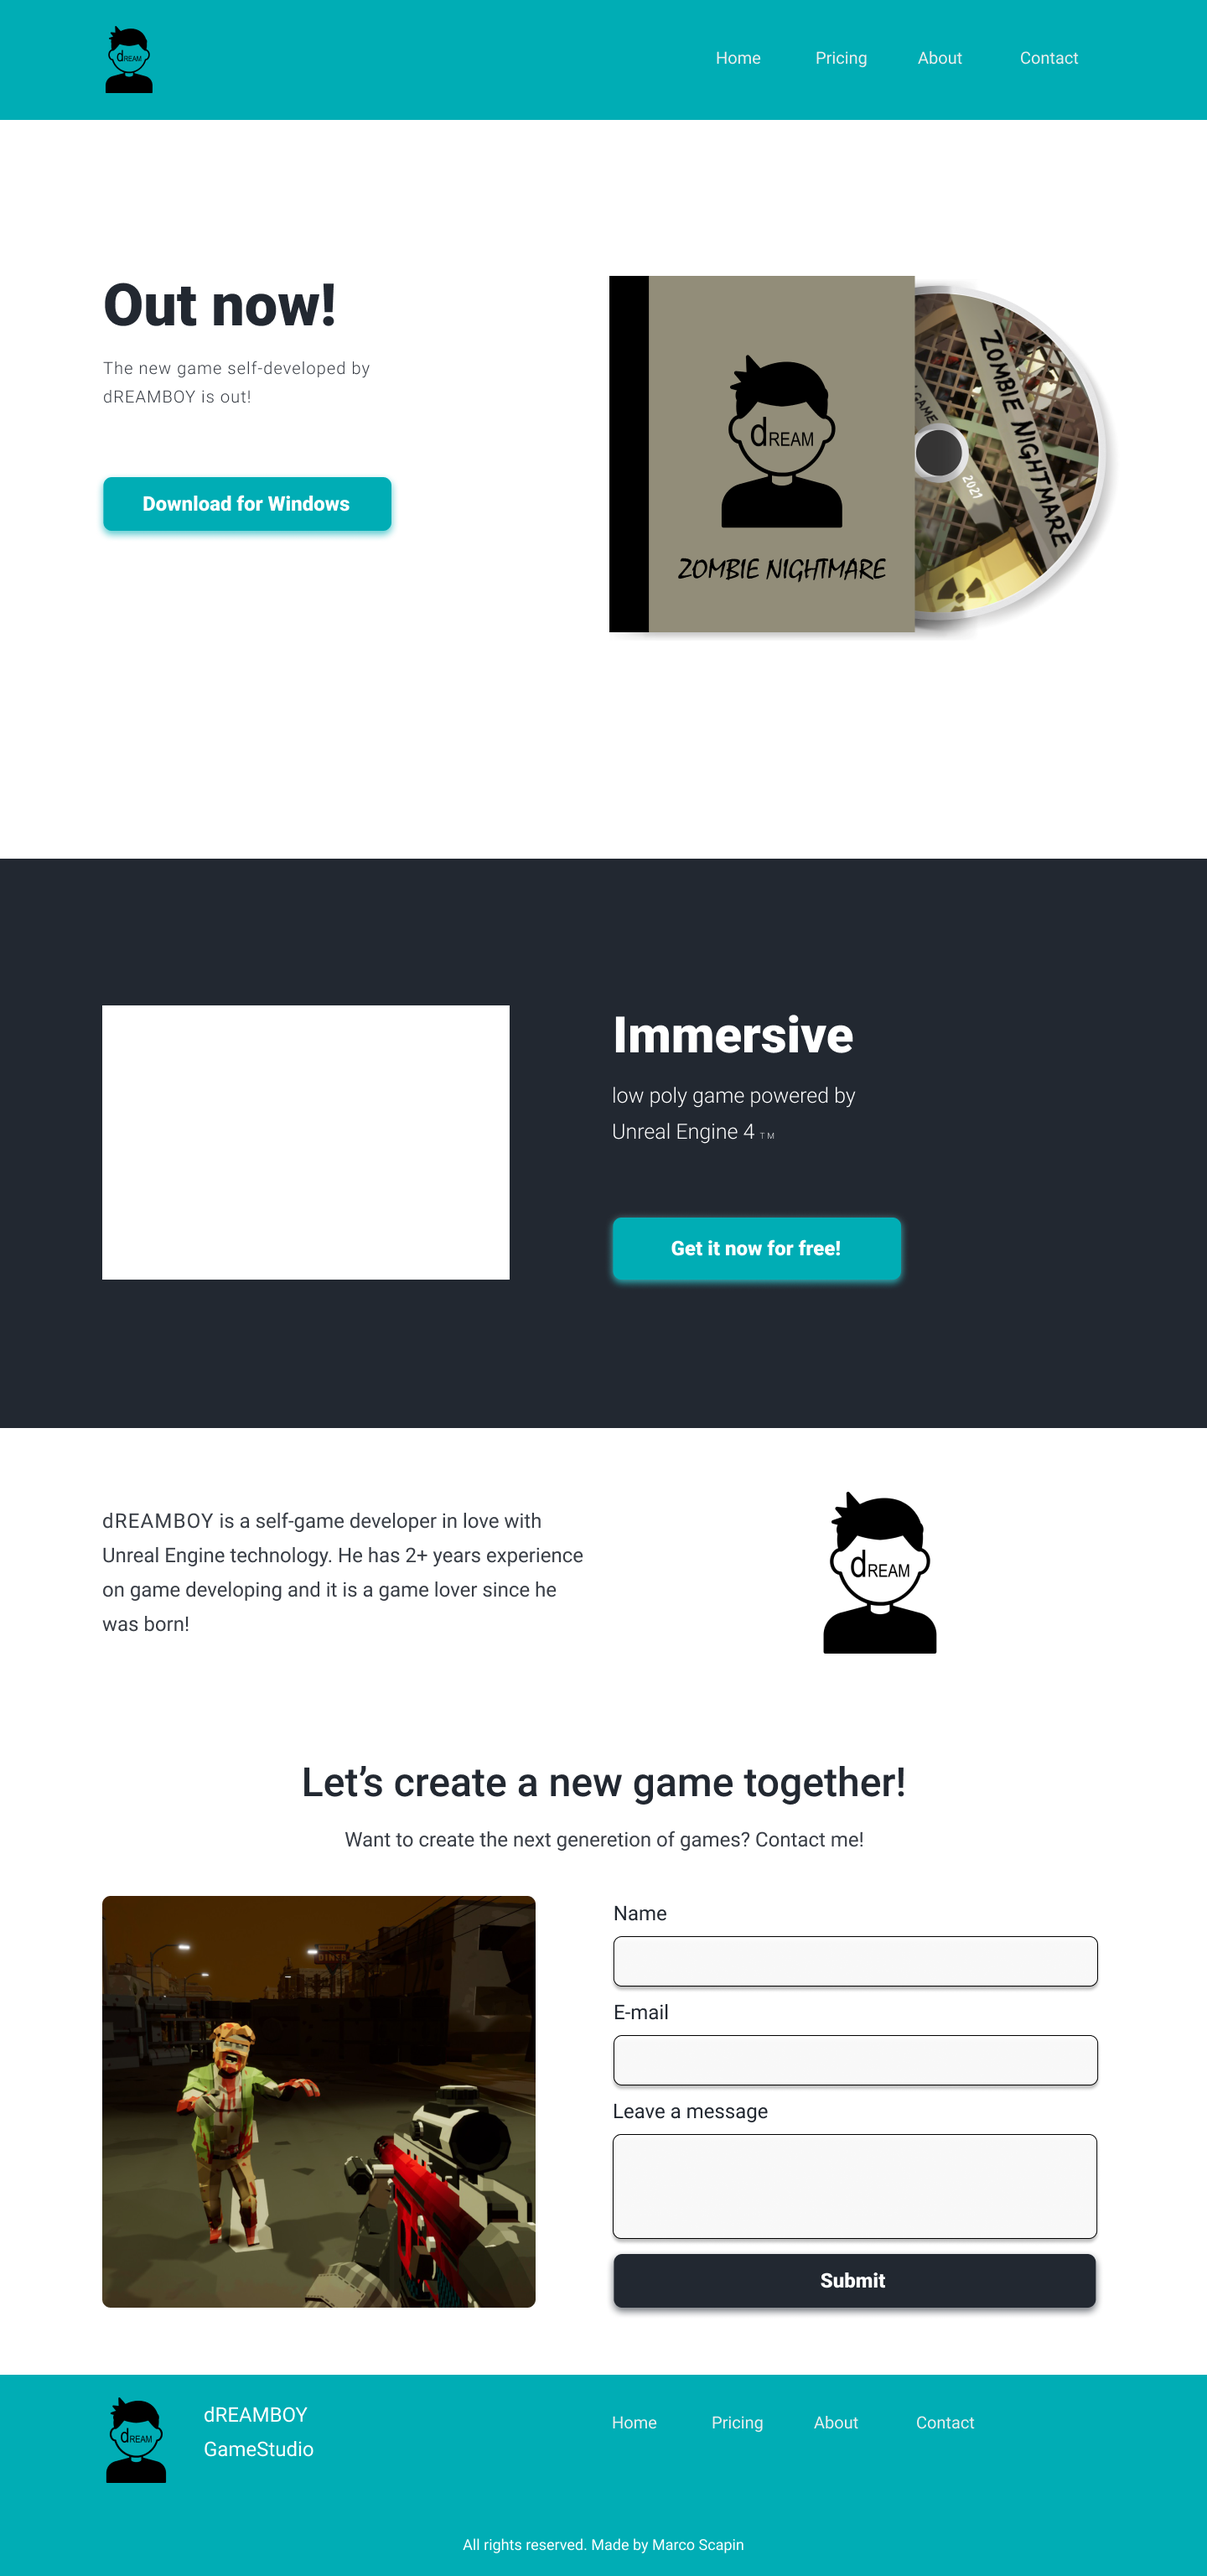
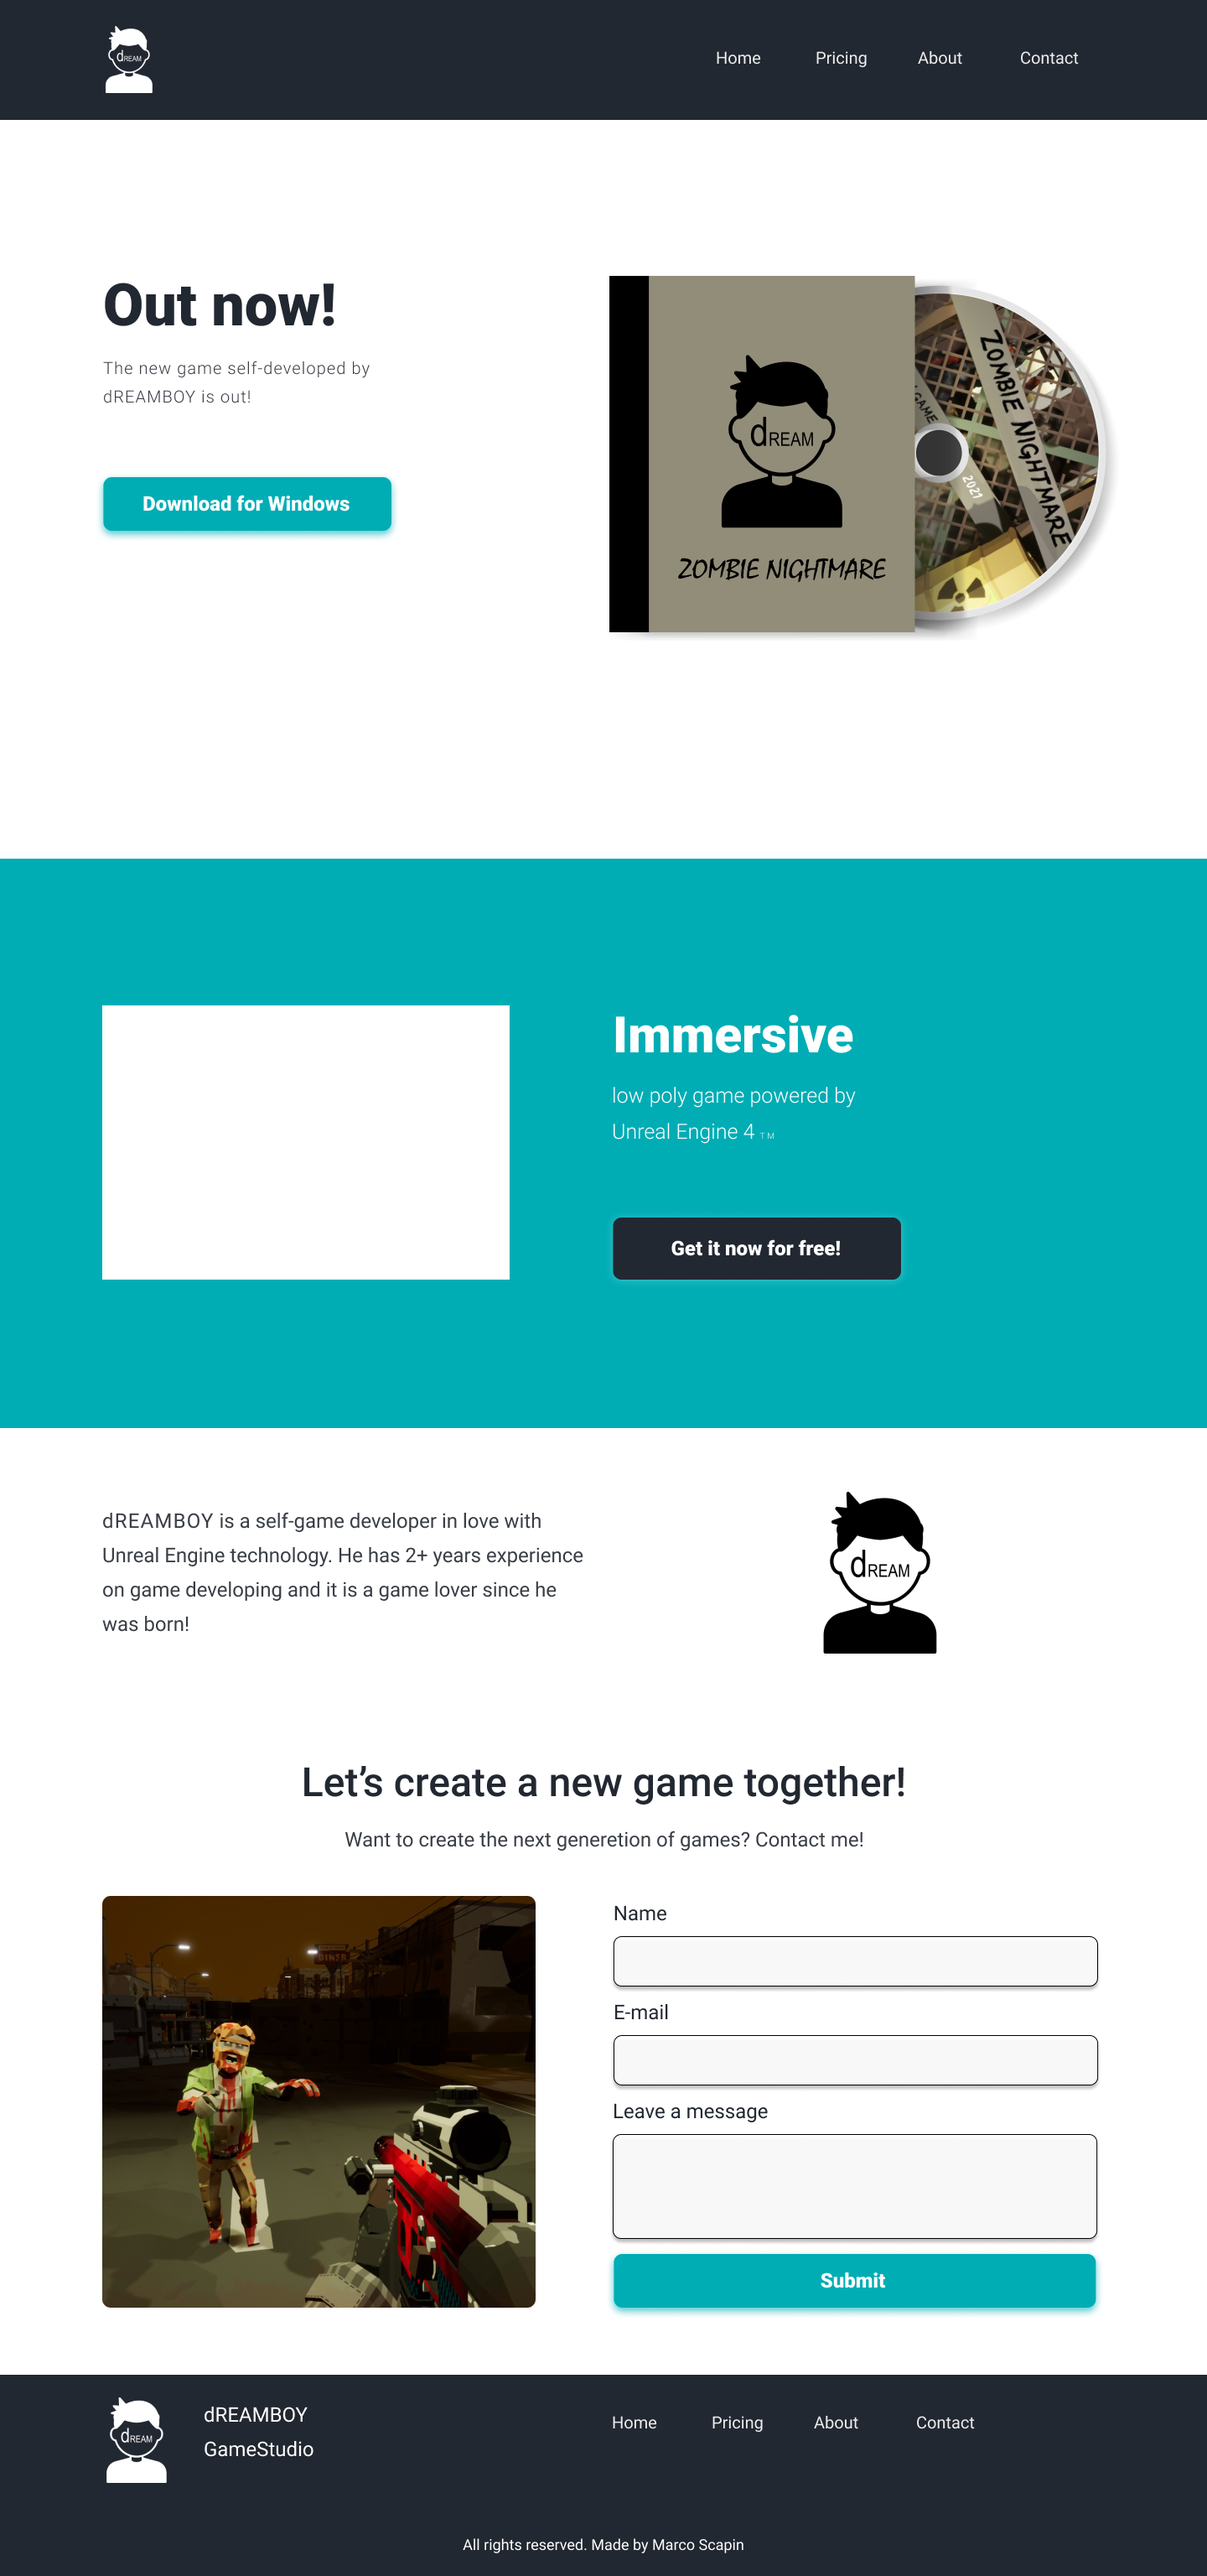
update html structure and video
created html structure - nav bar - wht logo - created and edited video for the challenge - update home page preview

diff --git a/index.html b/index.html
@@ -4,6 +4,7 @@
     <meta charset="utf-8">
     <meta name="viewport" content="width=device-width, initial-scale=1.0">
     <title>Zombie Nightmare</title>
+
     <!-- Google Font -->
 
     <style>
@@ -11,7 +12,61 @@
     </style>
   </head>
   <body>
+    <!-- here's the nav bar -->
+    <header id="header">
+      <!--how to make a nav?
+      Steps:
+      1- create a div for the entire section -> display: flex
+      2- create an <ul class="navbar"></ul>
+      3- add before the ul element the img of #2
+      4-
+       -->
+      <img id="header-img" src="images/dREAMBOY logo wht.png" alt="brand-logo">
+      <!-- my navbar -->
+      <nav id="nav-bar">
+        <ul>
+          <li class="nav-link"><a href="#">Home</a></li>
+          <li class="nav-link"><a href="#pricing-section">Pricing</a></li>
+          <li class="nav-link"><a href="#about-section">About</a></li>
+          <li class="nav-link"><a href="#contact-section">Contact</a></li>
 
+        </ul>
+      </nav>
+
+    </header>
+
+
+
+    <!-- here's the body content -->
+    <main>
+      <!-- Pricing Section -->
+      <section id="pricing-section">
+
+      </section>
+
+
+
+      <!-- About Section -->
+      <section id="about-section">
+
+      </section>
+
+
+
+      <!-- Contact Section -->
+      <section id="contact-section">
+
+      </section>
+
+
+    </main>
+
+
+
+    <!-- here's the footer -->
+    <footer>
+
+    </footer>
 
 
   </body>

diff --git a/readme.md b/readme.md
@@ -18,17 +18,24 @@ Fulfill the below user stories and get all of the tests to pass. Give it your ow
 
 You can use HTML, JavaScript, and CSS to complete this project. Plain CSS is recommended because that is what the lessons have covered so far and you should get some practice with plain CSS. You can use Bootstrap or SASS if you choose. Additional technologies (just for example jQuery, React, Angular, or Vue) are not recommended for this project, and using them is at your own risk. Other projects will give you a chance to work with different technology stacks like React. We will accept and try to fix all issue reports that use the suggested technology stack for this project. Happy coding!
 
-User Story #1: My product landing page should have a header element with a corresponding id="header".
+User Story #1: My product landing page should have a header element with a corresponding id="header". OK!!!!!
 
-User Story #2: I can see an image within the header element with a corresponding id="header-img". A company logo would make a good image here.
+User Story #2: I can see an image within the header element with a corresponding id="header-img". A company logo would make a good image here. OK!!!!!
 
-User Story #3: Within the #header element I can see a nav element with a corresponding id="nav-bar".
+User Story #3: Within the #header element I can see a nav element with a corresponding id="nav-bar". OK!!!
 
-User Story #4: I can see at least three clickable elements inside the nav element, each with the class nav-link.
+User Story #4: I can see at least three clickable elements inside the nav element, each with the class nav-link. OK!!!!
 
-User Story #5: When I click a .nav-link button in the nav element, I am taken to the corresponding section of the landing page.
+User Story #5: When I click a .nav-link button in the nav element, I am taken to the corresponding section of the landing page. OK!!
+
+---
+
+
 
 User Story #6: I can watch an embedded product video with id="video".
+
+
+<!-- FORM -->
 
 User Story #7: My landing page has a form element with a corresponding id="form".
 
@@ -42,9 +49,14 @@ User Story #11: Within the form, there is a submit input with a corresponding id
 
 User Story #12: When I click the #submit element, the email is submitted to a static page (use this mock URL: https://www.freecodecamp.com/email-submit).
 
+
+<!-- MEDIAQUERY -->
+
 User Story #13: The navbar should always be at the top of the viewport.
 
 User Story #14: My product landing page should have at least one media query.
+
+<!-- FLEXBOX -->
 
 User Story #15: My product landing page should utilize CSS flexbox at least once.
 
